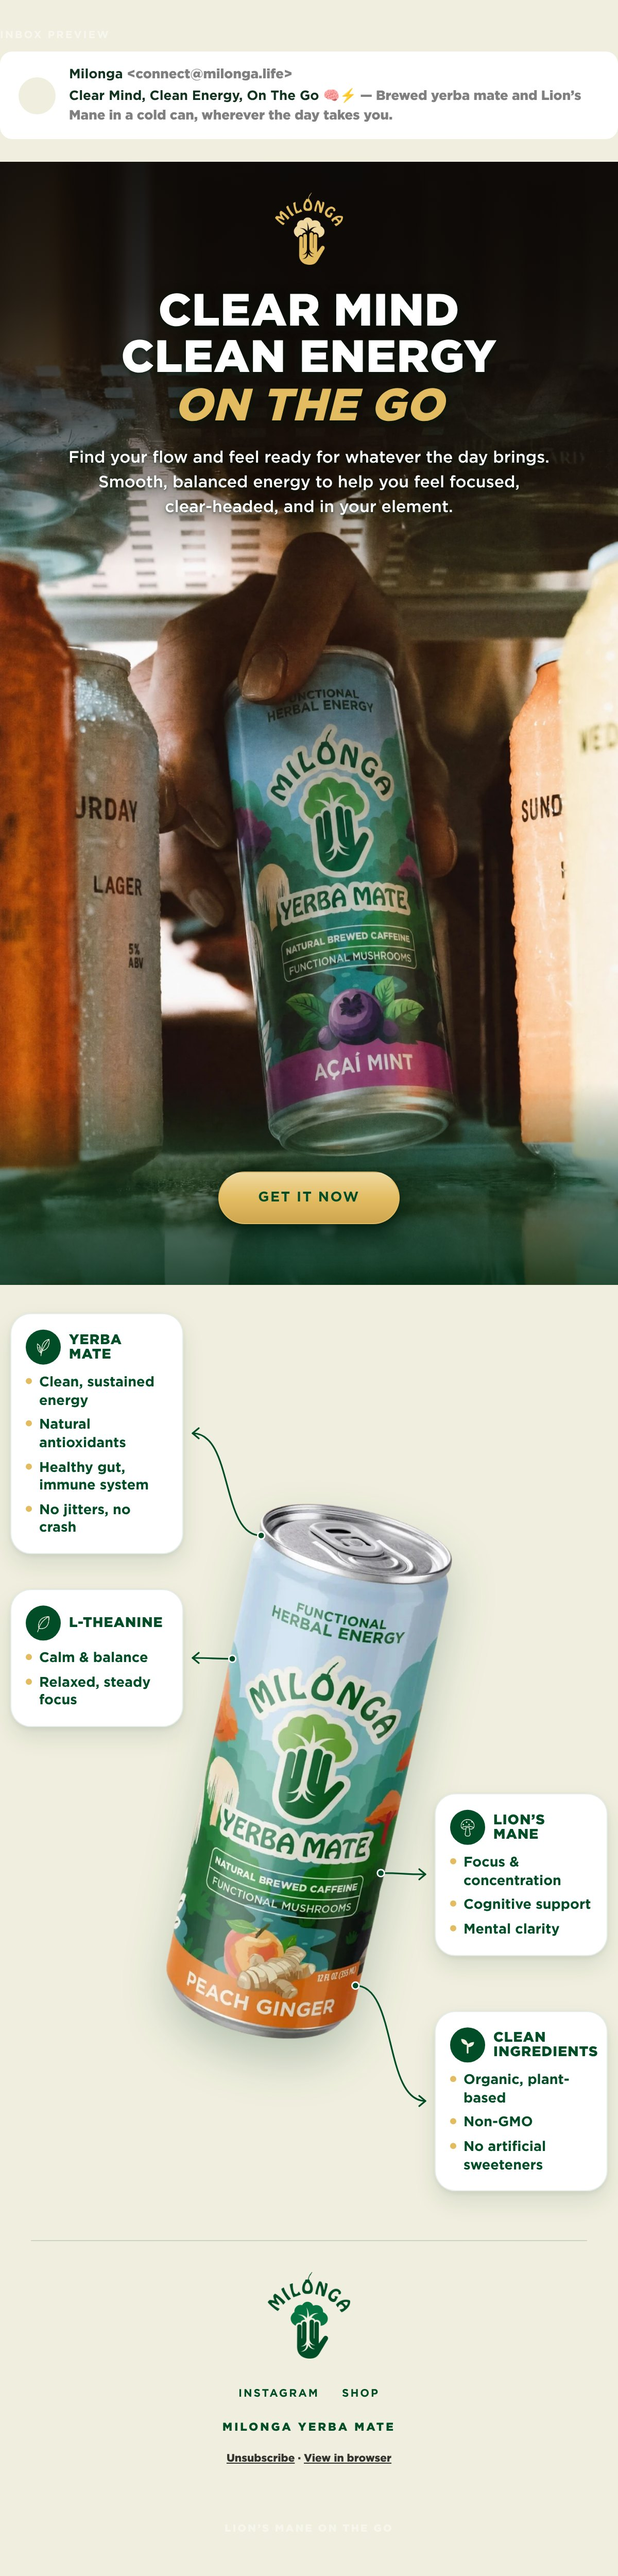
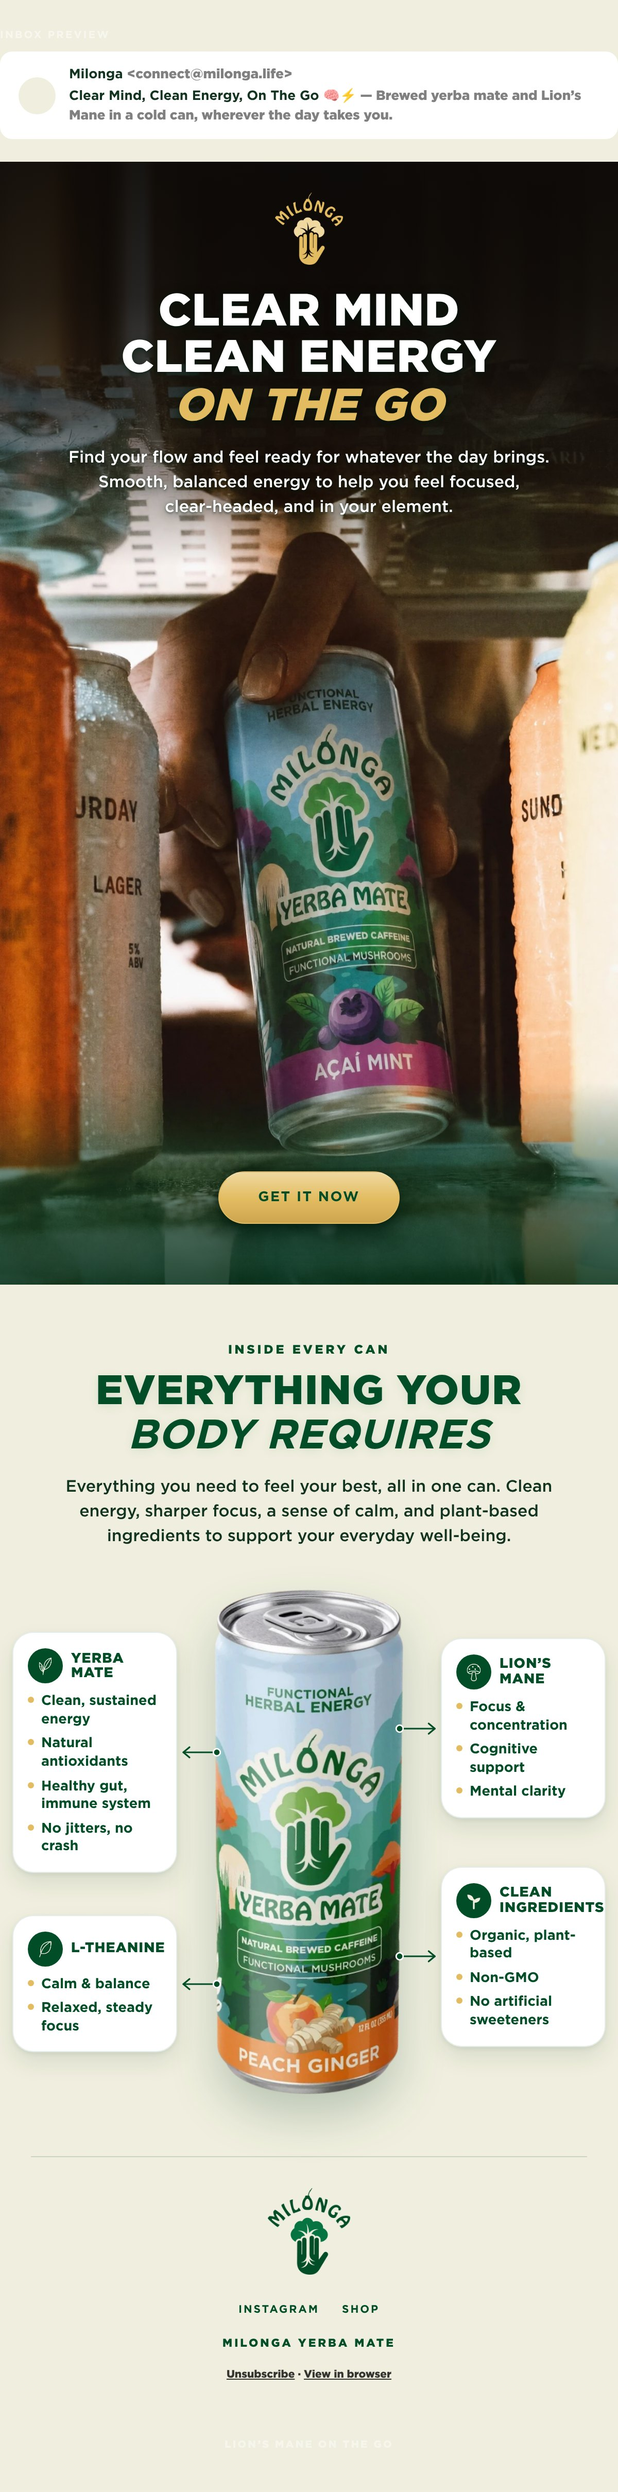
email: on the go — section 2 title, callouts beside the can
Adds Bernat's title and paragraph (EVERYTHING YOUR BODY REQUIRES) with an
eyebrow. The callouts move strictly beside the can, two on each side within
its height: the render is stood upright (rotated -12°) so its sides are
straight, and each card carries a straight hairline arrow to the can's edge.

Claude-Session: https://claude.ai/code/session_01NhEtXPnfeCJfN73SqBkUZ5

diff --git a/email-ds/emails/on-the-go.jsx b/email-ds/emails/on-the-go.jsx
@@ -29,58 +29,54 @@ const SECTION_1_ALT =
 
 
 // ── Section 2 · what is in the can ─────────────────────────────────────────
-// The tilted Peach Ginger can (can-peach-ginger-lm-tilt.png, trimmed to
-// 474 x 886) stands in the middle, CAN_H tall. Its top leans right, so the
-// open ground is upper-left and lower-right: the four callouts zig-zag —
-// left, right, left, right — so every arrow has room to run.
+// The Peach Ginger can stands in the middle, CAN_H tall, with two callouts
+// on its left and two on its right, all four inside the can's own height —
+// beside it, never above or below (Bernat). Bernat's render leans 12°, which
+// leaves no room beside its lower-left and upper-right, so the can is stood
+// upright (can-peach-ginger-lm-upright.png: the same render rotated -12° and
+// trimmed, 334 x 888). Upright, its sides are straight: the left edge sits 3
+// file px in, the right 328 — so every arrow is one straight hairline of the
+// same length, from the can's edge to its card.
 //
-// THE ARROWS TOUCH THE CAN (design memory, T8). Each starts on the can's own
-// silhouette at its card's height; SILHOUETTE is the can's left and right
-// edge, in file pixels, measured from the PNG's alpha every 5% of its height.
-const CAN = { w: 474, h: 886 };
-const CAN_H = 520;
+// THE ARROWS TOUCH THE CAN (design memory, T8): each one ends ON the
+// silhouette, a dot on the can, an open chevron at the card.
+const CAN = { w: 334, h: 888, edgeL: 3, edgeR: 328 };
+const CAN_H = 490;
 const CAN_K = CAN_H / CAN.h;
 const CAN_LEFT = 300 - (CAN.w * CAN_K) / 2;
-const SILHOUETTE = [[156, 422], [156, 422], [140, 472], [131, 467], [122, 459], [113, 449], [103, 439], [94, 429],
-  [85, 419], [76, 409], [67, 399], [58, 389], [49, 379], [40, 369], [30, 359], [21, 349], [13, 339], [3, 329],
-  [11, 319], [48, 306], [48, 306]];
-// The can's edge, in design units from the diagram's left, at a fraction f
-// of its height.
-function canEdge(f, side) {
-  const i = Math.min(19, Math.floor(f * 20)), t = f * 20 - i;
-  const v = SILHOUETTE[i][side] + (SILHOUETTE[i + 1][side] - SILHOUETTE[i][side]) * t;
-  return CAN_LEFT + v * CAN_K;
-}
+const CAN_EDGE_L = CAN_LEFT + CAN.edgeL * CAN_K + 2; // a touch inside the edge
+const CAN_EDGE_R = CAN_LEFT + CAN.edgeR * CAN_K - 2;
 // THE CARDS ARE WIDE ENOUGH TO READ ON A PHONE (Klaviyo scales the image to
-// about 0.6), which a 600 frame with a tilted can only allows if the outer
-// two sit beyond the can's ends: Yerba Mate above its top-left shoulder,
-// Clean ingredients below its foot on the right. Each callout gives its card
-// centre (cy, units from the can's top) and where its arrow leaves the can
-// (f, a fraction of the can's height, on the card's side).
-// BENEFIT LINES are Bernat's except four, swapped under the standing
+// about 0.6) and the arrows still get room to run.
+const CARD_W = 160;
+const CARD_X = 12;
+const ARROW_L = CAN_EDGE_L - (CARD_X + CARD_W);
+const ARROW_R = (600 - CARD_X - CARD_W) - CAN_EDGE_R;
+// BENEFIT LINES are Bernat's except three, swapped under the standing
 // no-health-claims rule (his to reverse): "boost metabolism" (Yerba Mate)
-// gives way to "No jitters, no crash", from the product file; "antioxidants and vitamins" narrows to "Natural
-// antioxidants"; "mood support" (Lion's Mane) becomes "Mental clarity", also
-// the product file's; "relaxation and stress support" (L-Theanine) becomes
-// "Relaxed, steady focus". "Healthy gut, immune system" was swapped too and
-// is BACK: Bernat confirmed on 2026-10-16 that he and the founder approve
-// it for Yerba Mate. Not to be flagged again.
-const CAN_TOP = 172; // room above the can for the first card
-const CARD_W = 168;
-const CARD_X = 10;
-const CALLOUTS = [
-  { side: 'left', cy: -68, f: 0.06, mark: 'yerba-mate', name: 'Yerba Mate',
+// gives way to "No jitters, no crash", from the product file; "antioxidants
+// and vitamins" narrows to "Natural antioxidants"; "mood support" (Lion's
+// Mane) becomes "Mental clarity", also the product file's; "relaxation and
+// stress support" (L-Theanine) becomes "Relaxed, steady focus". "Healthy
+// gut, immune system" is Bernat's and STAYS: he confirmed on 2026-10-16 that
+// he and the founder approve it for Yerba Mate. Not to be flagged again.
+const LEFT = [
+  { mark: 'yerba-mate', name: 'Yerba Mate',
     lines: ['Clean, sustained energy', 'Natural antioxidants', 'Healthy gut, immune system', 'No jitters, no crash'] },
-  { side: 'left', cy: 150, f: 0.29, mark: 'l-theanine', name: 'L-Theanine',
+  { mark: 'l-theanine', name: 'L-Theanine',
     lines: ['Calm & balance', 'Relaxed, steady focus'] },
-  { side: 'right', cy: 360, f: 0.69, mark: 'lions-mane', name: 'Lion’s Mane',
+];
+const RIGHT = [
+  { mark: 'lions-mane', name: 'Lion’s Mane',
     lines: ['Focus & concentration', 'Cognitive support', 'Mental clarity'] },
-  { side: 'right', cy: 580, f: 0.9, mark: 'clean', name: 'Clean ingredients',
+  { mark: 'clean', name: 'Clean ingredients',
     lines: ['Organic, plant-based', 'Non-GMO', 'No artificial sweeteners'] },
 ];
-const DIAGRAM_H = CAN_TOP + 580 + 95;
 
 const SECTION_2_ALT =
+  'Everything your body requires. Everything you need to feel your best, all ' +
+  'in one can. Clean energy, sharper focus, a sense of calm, and plant-based ' +
+  'ingredients to support your everyday well-being. ' +
   'A can of Milonga Yerba Mate in Peach Ginger. Yerba mate: clean, sustained ' +
   'energy, natural antioxidants, healthy gut, immune system, no jitters, no crash. Lion’s Mane: focus and ' +
   'concentration, cognitive support, mental clarity. L-Theanine: calm and ' +
@@ -94,12 +90,23 @@ const SPROUT = h('svg', { width: 20, height: 20, viewBox: '0 0 24 24' },
   h('path', { d: 'M12 12 C12 7.5 9 5 4.5 5 C4.5 9.5 7.5 12 12 12 Z', fill: '#F0EFDF' }),
   h('path', { d: 'M12 14.5 C12 10.5 14.8 8.5 19.5 8.5 C19.5 12.5 16.5 14.5 12 14.5 Z', fill: '#F0EFDF' }));
 
-function Callout(c, i) {
-  const left = c.side === 'left';
-  return h('div', { key: i, style: { position: 'absolute', top: CAN_TOP + c.cy,
-    [left ? 'left' : 'right']: CARD_X, width: CARD_W, transform: 'translateY(-50%)', boxSizing: 'border-box',
+// A callout card, carrying its own arrow: a straight hairline from the
+// card's inner edge at its middle to the can's edge.
+function Callout(c, i, side) {
+  const left = side === 'left';
+  const len = left ? ARROW_L : ARROW_R;
+  return h('div', { key: i, style: { position: 'relative', width: CARD_W, boxSizing: 'border-box', textAlign: 'left',
     background: '#FFFFFF', borderRadius: 20, padding: '15px 14px 15px',
     border: '1px solid rgba(0,77,39,0.10)', boxShadow: '0 10px 22px rgba(0,53,27,0.10), 0 2px 5px rgba(0,53,27,0.07)' } },
+    h('svg', { width: len, height: 14, viewBox: `0 0 ${len} 14`, style: { position: 'absolute', top: '50%',
+      [left ? 'left' : 'right']: '100%', marginTop: -7, overflow: 'visible' } },
+      left
+        ? [h('path', { key: 'l', d: `M 7 7 H ${len}`, stroke: FOREST, strokeWidth: 1.6, strokeLinecap: 'round' }),
+           h('path', { key: 'c', d: 'M 13 2 L 7 7 L 13 12', fill: 'none', stroke: FOREST, strokeWidth: 1.6, strokeLinecap: 'round', strokeLinejoin: 'round' }),
+           h('circle', { key: 'd', cx: len, cy: 7, r: 3.4, fill: FOREST, stroke: '#FFFFFF', strokeWidth: 1.4 })]
+        : [h('path', { key: 'l', d: `M 0 7 H ${len - 7}`, stroke: FOREST, strokeWidth: 1.6, strokeLinecap: 'round' }),
+           h('path', { key: 'c', d: `M ${len - 13} 2 L ${len - 7} 7 L ${len - 13} 12`, fill: 'none', stroke: FOREST, strokeWidth: 1.6, strokeLinecap: 'round', strokeLinejoin: 'round' }),
+           h('circle', { key: 'd', cx: 0, cy: 7, r: 3.4, fill: FOREST, stroke: '#FFFFFF', strokeWidth: 1.4 })]),
     h('div', { style: { display: 'flex', alignItems: 'center', gap: 8 } },
       h('span', { style: { flex: 'none', width: 34, height: 34, borderRadius: 999, background: FOREST,
         display: 'flex', alignItems: 'center', justifyContent: 'center' } },
@@ -116,22 +123,11 @@ function Callout(c, i) {
   );
 }
 
-// One arrow: from a dot on the can's edge, a soft S-curve out to the card's
-// inner edge at its middle, ending in an open chevron just short of it.
-function Arrow(c, i) {
-  const left = c.side === 'left';
-  const dir = left ? -1 : 1; // outward from the can
-  const y0 = CAN_TOP + c.f * CAN_H;
-  const x0 = canEdge(c.f, left ? 0 : 1) - dir * 3;
-  const y1 = CAN_TOP + c.cy;
-  const x1 = left ? CARD_X + CARD_W + 9 : 600 - CARD_X - CARD_W - 9;
-  const k = Math.abs(x1 - x0) * 0.6;
-  const d = `M ${x0} ${y0} C ${x0 + dir * k} ${y0}, ${x1 - dir * k} ${y1}, ${x1} ${y1}`;
-  return h('g', { key: i },
-    h('path', { d, fill: 'none', stroke: FOREST, strokeWidth: 1.6, strokeLinecap: 'round' }),
-    h('circle', { cx: x0, cy: y0, r: 3.4, fill: FOREST, stroke: '#FFFFFF', strokeWidth: 1.4 }),
-    h('path', { d: `M ${x1 - dir * 6} ${y1 - 5} L ${x1} ${y1} L ${x1 - dir * 6} ${y1 + 5}`, fill: 'none',
-      stroke: FOREST, strokeWidth: 1.6, strokeLinecap: 'round', strokeLinejoin: 'round' }));
+// A column of two callouts, spread over the can's height.
+function Column(items, side) {
+  return h('div', { style: { position: 'absolute', top: 0, height: CAN_H, [side]: CARD_X, width: CARD_W,
+    display: 'flex', flexDirection: 'column', justifyContent: 'space-evenly' } },
+    items.map((c, i) => Callout(c, i, side)));
 }
 
 function OnTheGo({ shopHref = '#shop' }) {
@@ -166,16 +162,23 @@ function OnTheGo({ shopHref = '#shop' }) {
     ),
 
     // ── 2 · WHAT IS IN THE CAN ────────────────────────────────────────────
-    // Beige, the can big in the middle, four white callouts with an arrow
-    // from the can to each.
-    h('div', { style: { position: 'relative', padding: '40px 0 40px' } },
-      h('div', { style: { position: 'relative', height: DIAGRAM_H } },
-        h('img', { src: '../public/product/can-peach-ginger-lm-tilt.png', alt: SECTION_2_ALT,
-          style: { position: 'absolute', top: CAN_TOP, left: CAN_LEFT, height: CAN_H, width: 'auto', display: 'block',
+    // Beige. The section title in the campaign's anatomy — eyebrow, headline
+    // with its second line set apart (by slant: beige takes no gold type),
+    // paragraph — then the can in the middle with two callouts either side.
+    h('div', { style: { padding: '56px 0 60px', textAlign: 'center' } },
+      h('div', { style: { padding: '0 32px' } },
+        h('div', { style: { fontFamily: FONT, fontWeight: 900, fontSize: 12, letterSpacing: '0.2em',
+          textTransform: 'uppercase', color: FOREST, marginBottom: 14 } }, 'Inside every can'),
+        h(M.Headline, { line1: 'Everything your', line2: 'body requires', bg: 'beige', size: 40, align: 'center', italic: true }),
+        h('div', { style: { fontFamily: FONT, fontWeight: 500, fontSize: 16, lineHeight: 1.5,
+          color: '#12331F', maxWidth: 480, margin: '16px auto 0' } },
+          'Everything you need to feel your best, all in one can. Clean energy, sharper focus, a sense of calm, and plant-based ingredients to support your everyday well-being.')),
+      h('div', { style: { position: 'relative', height: CAN_H, marginTop: 40 } },
+        h('img', { src: '../public/product/can-peach-ginger-lm-upright.png', alt: SECTION_2_ALT,
+          style: { position: 'absolute', top: 0, left: CAN_LEFT, height: CAN_H, width: 'auto', display: 'block',
             filter: 'drop-shadow(0 22px 22px rgba(0,53,27,0.22))' } }),
-        h('svg', { width: 600, height: DIAGRAM_H, style: { position: 'absolute', top: 0, left: 0, overflow: 'visible' } },
-          CALLOUTS.map(Arrow)),
-        CALLOUTS.map(Callout),
+        Column(LEFT, 'left'),
+        Column(RIGHT, 'right'),
       ),
     ),
 
